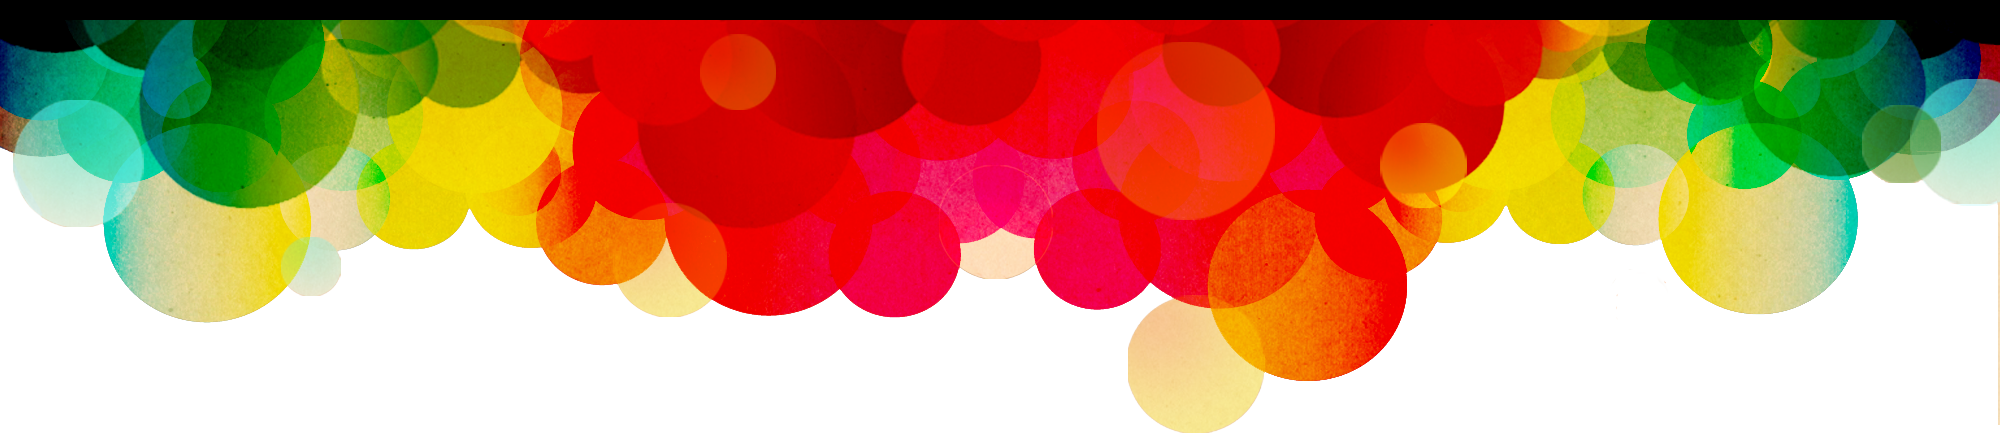
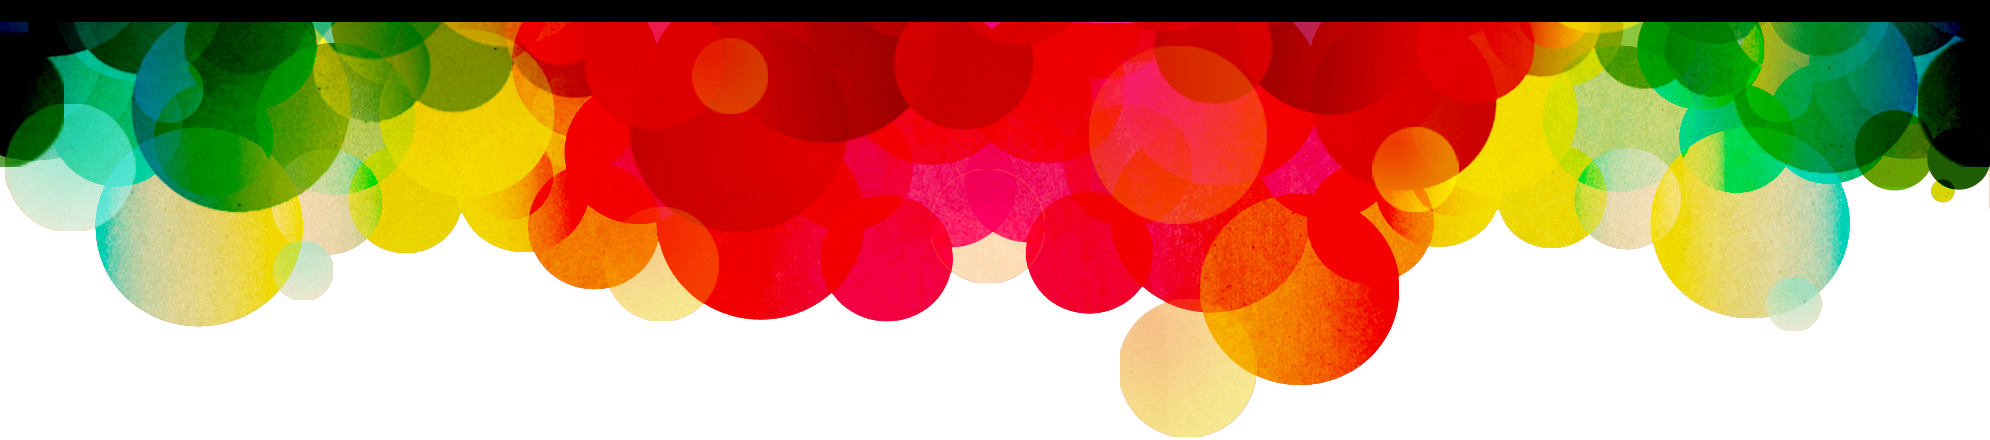
change background

diff --git a/static/css/style.css b/static/css/style.css
@@ -28,7 +28,7 @@
 html {
   background:  url(img/logo.png) no-repeat center 65px,
 url(img/top.png) no-repeat top left,
-url(img/footer.png) no-repeat bottom left,
+url(img/footer.jpg) no-repeat bottom left,
 url(img/background.png) repeat top left;
 }
 
